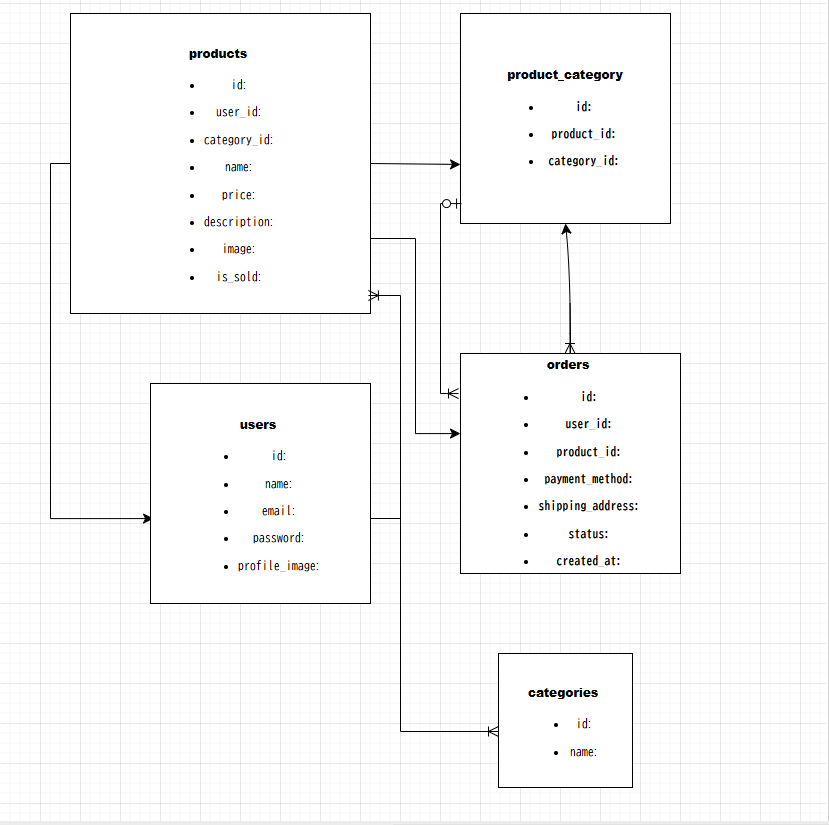
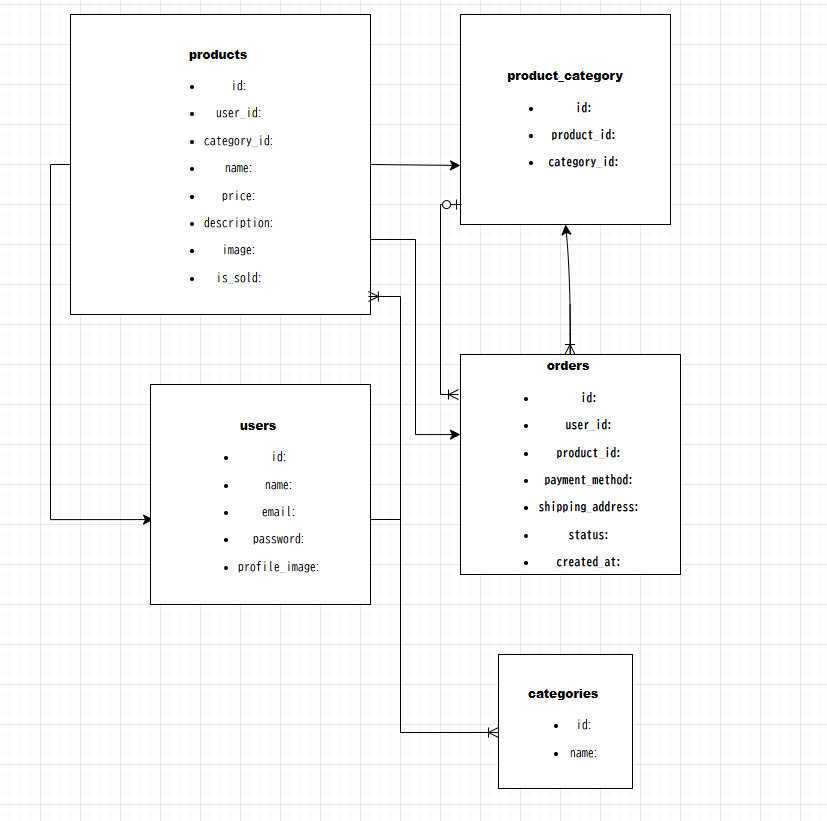
ER図の画像ファイルを新しく作り直して差し替え

diff --git a/README.md b/README.md
@@ -45,7 +45,7 @@ Bash
 表示された whsec_... を .env の STRIPE_WEBHOOK_SECRET に設定する。
 
 ## 3. ER図
-![ER図](https://github.com/sakamoto242/coachtech-furima/blob/main/er.png?raw=true)
+![ER図](er.png)
 
 
  URL
